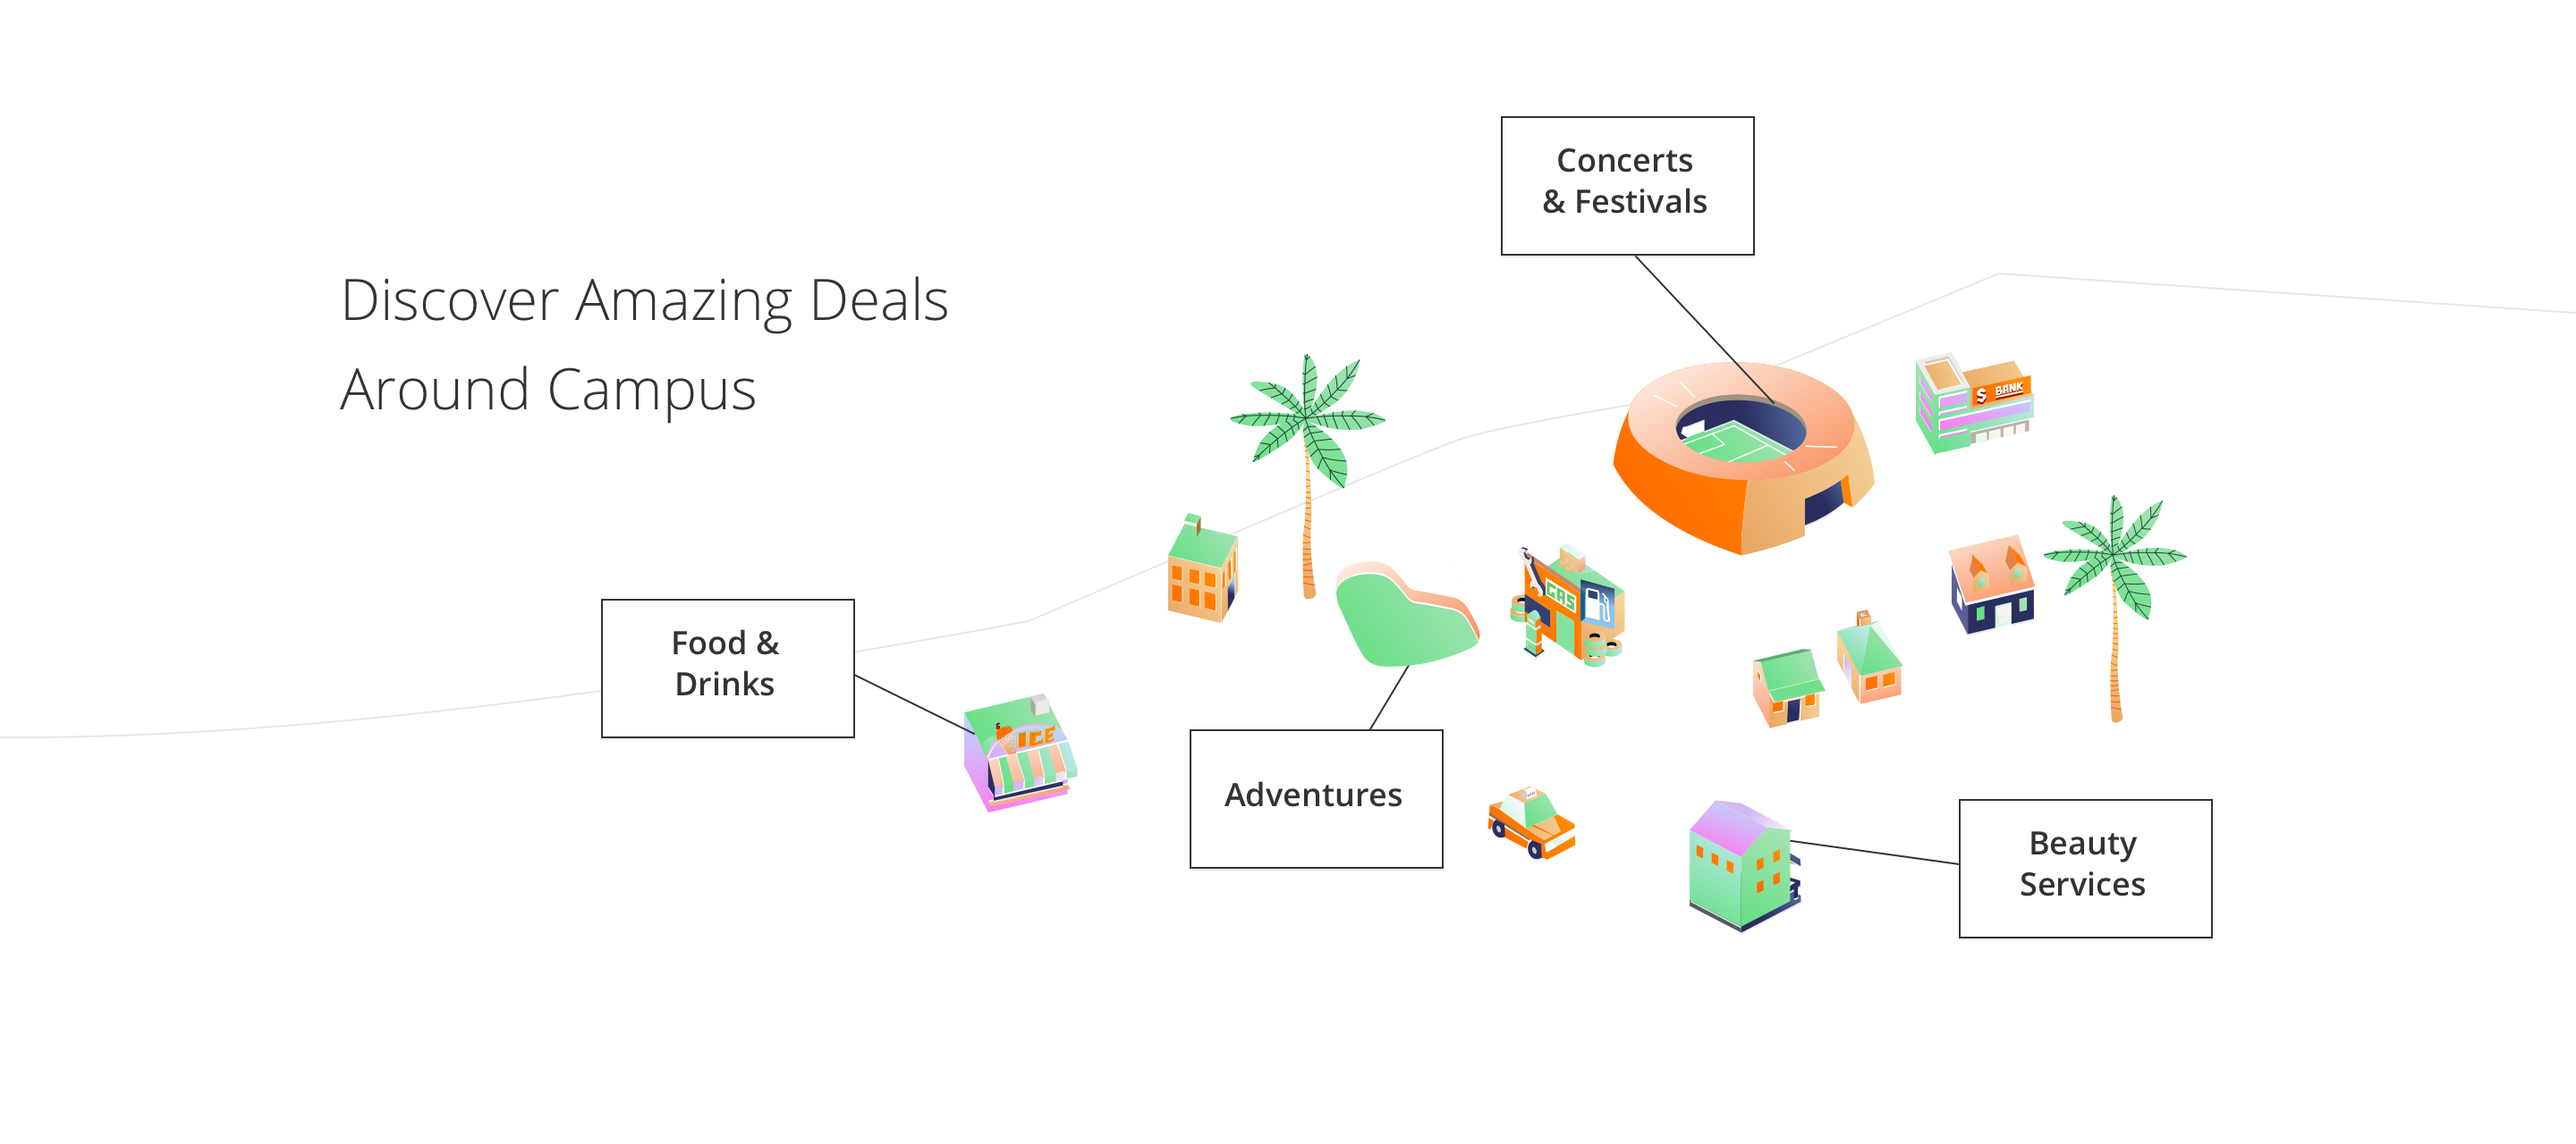
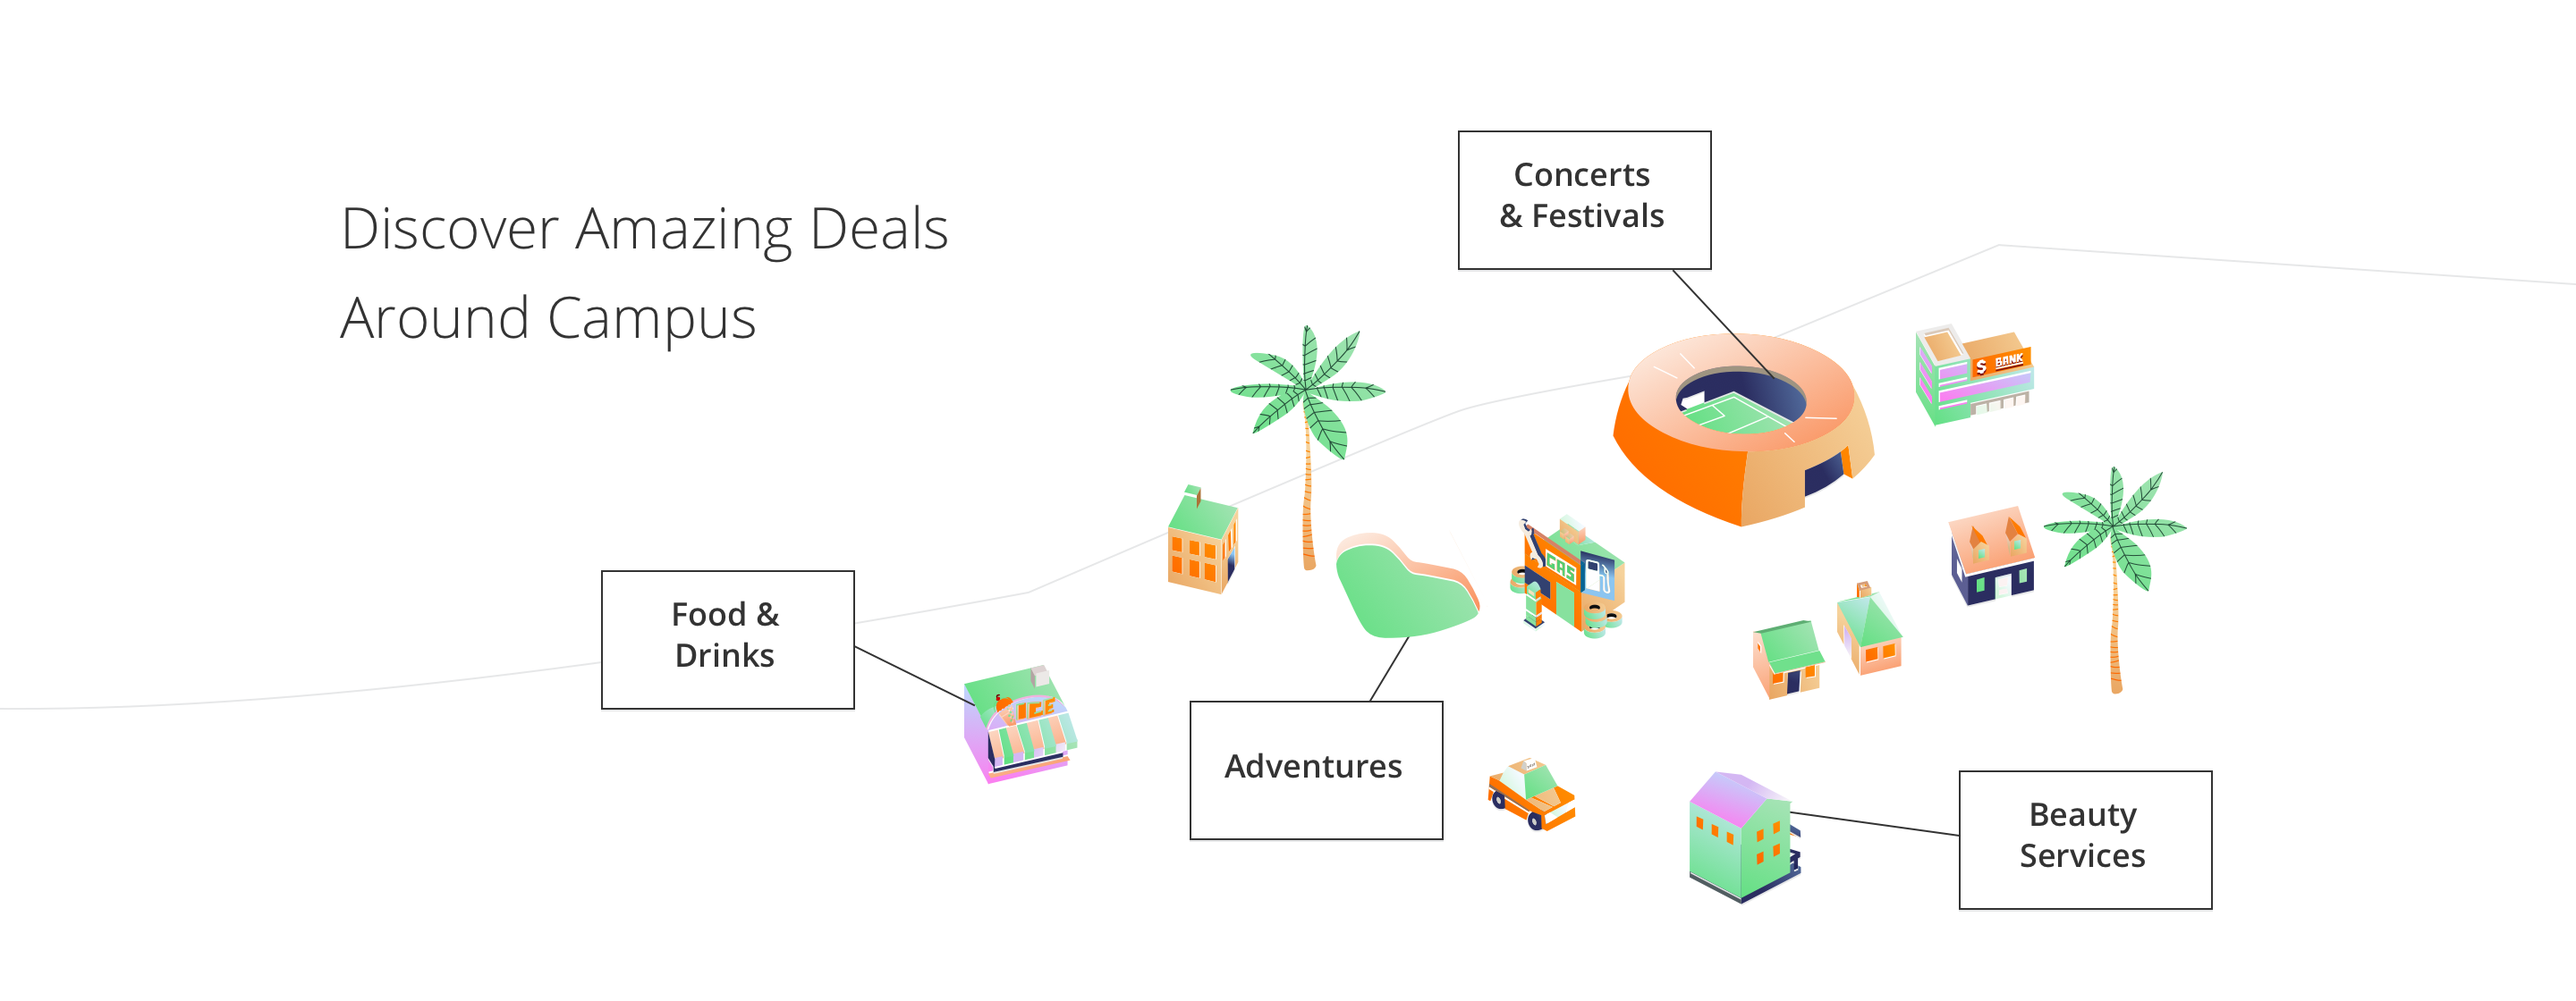
edits
edits

diff --git a/student.html b/student.html
@@ -10,7 +10,7 @@
 </head>
 <body>
 	<img src="images/student/nav.png" width="1440">
-	<img src="images/student/splash02.png" width="1440">
+	<img src="images/student/splash05.png" width="1440">
 	<img src="images/student/discover03.png" width="1440">
 	<!-- adventure -->
 	<img src="images/student/adventure.png" width="1440">
@@ -19,10 +19,8 @@
 	<img src="images/student/pamper.png" width="1440">
 	<!-- gifts -->
 	<img src="images/student/gifts.png" width="1440">
-
-	
-	<img src="images/student/signup.png" width="1440">
 	<img src="images/student/faq.png" width="1440">
+	<img src="images/student/signup.png" width="1440">
 	<img src="images/student/footer.png" width="1440">
 
 

diff --git a/doc.md b/doc.md
@@ -1,32 +1,4 @@
+table of contents
 
-
-#### Disabled options
-
-- TeX (Based on KaTeX);
-- Emoji;
-- Task lists;
-- HTML tags decode;
-- Flowchart and Sequence Diagram;
-
-#### Editor.md directory
-
-    editor.md/
-            lib/
-            css/
-            scss/
-            tests/
-            fonts/
-            images/
-            plugins/
-            examples/
-            languages/     
-            editormd.js
-            ...
-
-```html
-<!-- English -->
-<script src="../dist/js/languages/en.js"></script>
-
-<!-- 繁體中文 -->
-<script src="../dist/js/languages/zh-tw.js"></script>
-```
+index.html - bucksback
+student.html - loyalty program
